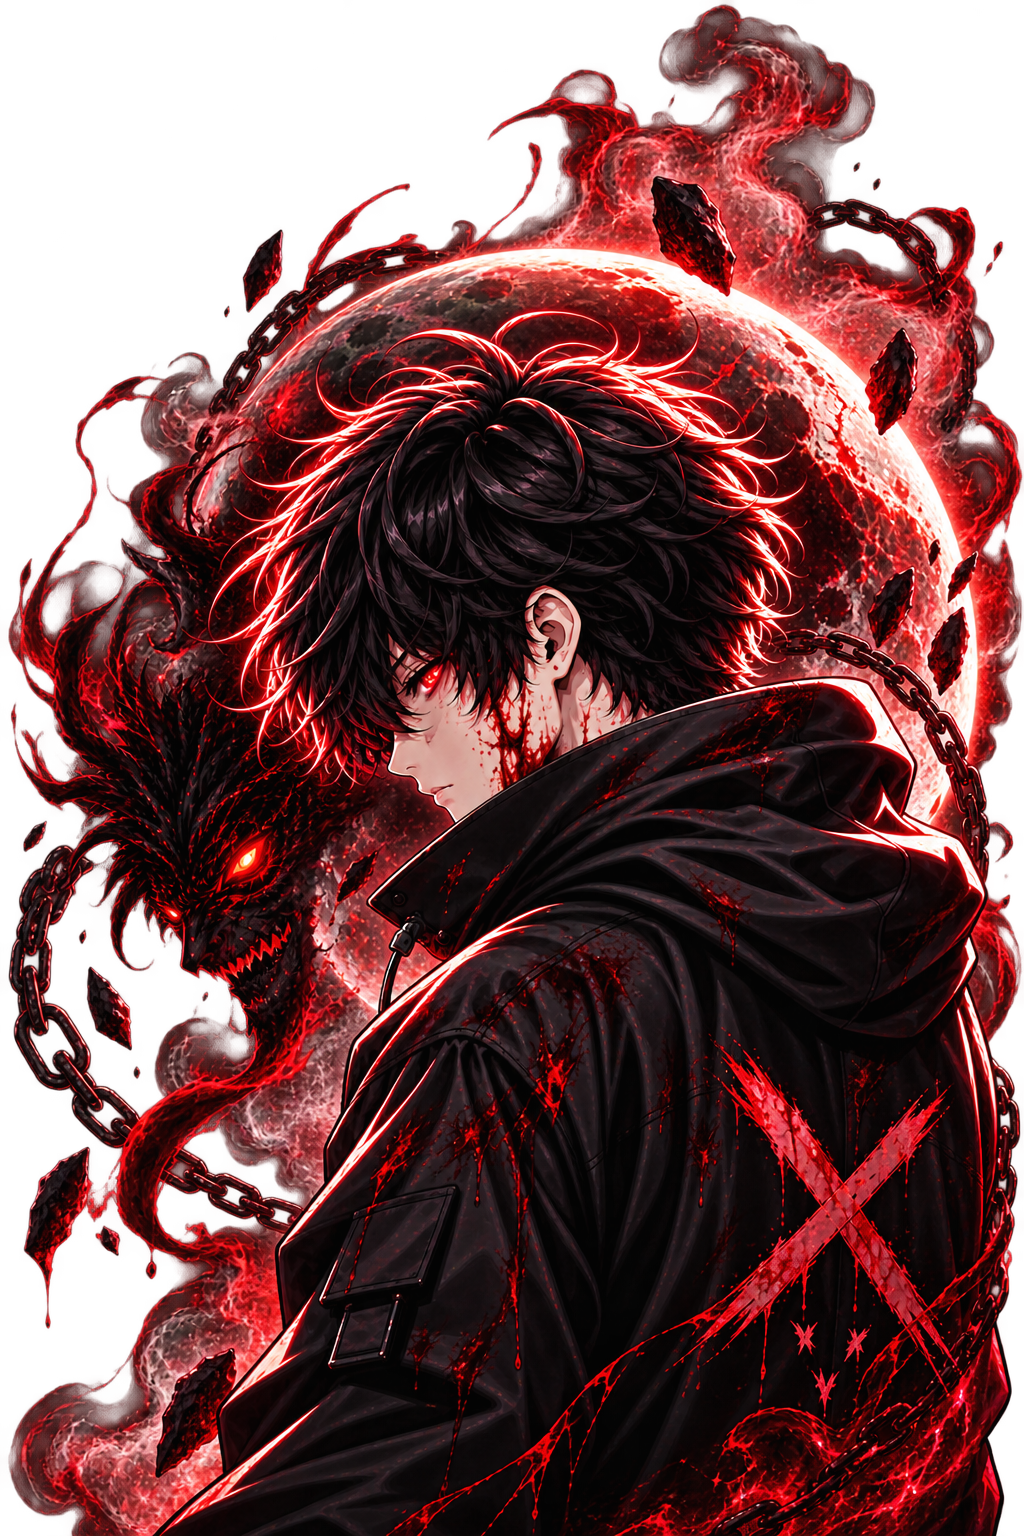
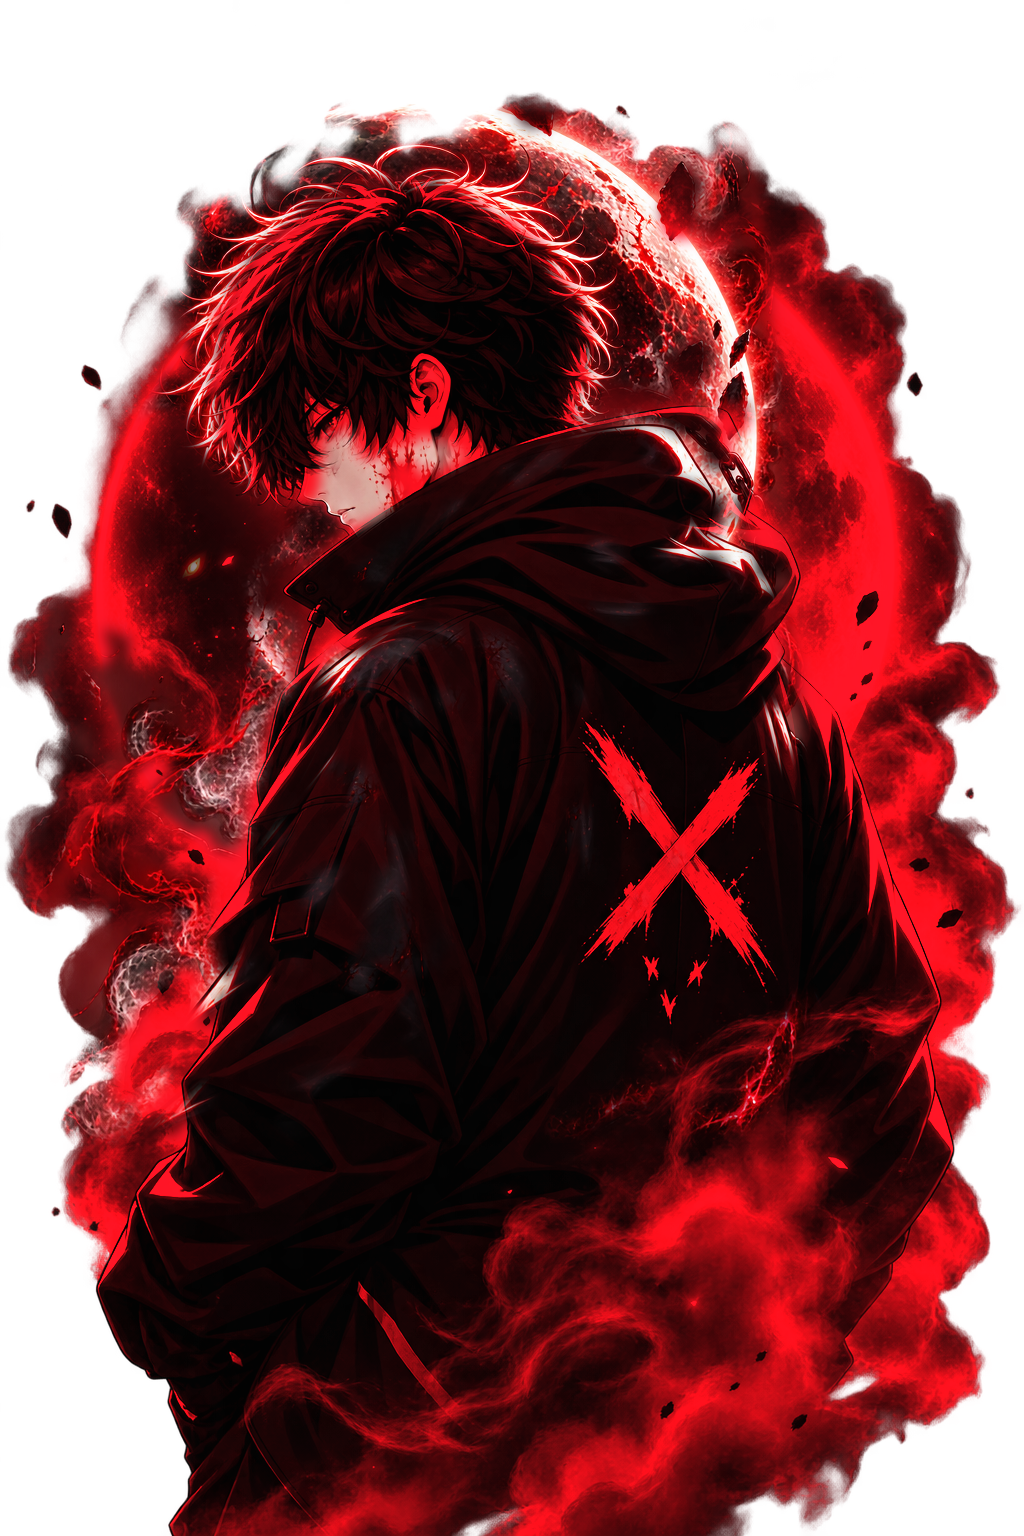
Add smooth spotlight mask transition and compact ambient glow cursor follower

diff --git a/responsive.css b/responsive.css
@@ -42,7 +42,7 @@ body::after {
     left: 0;
     width: 100%;
     height: 100%;
-    background: 
+    background:
         radial-gradient(1.5px 1.5px at 25px 35px, rgba(255, 255, 255, 0.9), transparent),
         radial-gradient(2px 2px at 70px 85px, rgba(215, 230, 255, 0.75), transparent),
         radial-gradient(1px 1px at 130px 45px, rgba(255, 255, 255, 0.65), transparent),
@@ -58,8 +58,13 @@ body::after {
 }
 
 @keyframes moonStars {
-    from { transform: translateY(0); }
-    to { transform: translateY(-160px); }
+    from {
+        transform: translateY(0);
+    }
+
+    to {
+        transform: translateY(-160px);
+    }
 }
 
 body::-webkit-scrollbar {
@@ -327,30 +332,51 @@ header .navigationbar #logo2 a {
 }
 
 #s1home #anime #uimg {
-    object-fit: cover;
     position: absolute;
-    border-radius: 25px;
-    width: 100%;
-    height: 100%;
     top: 0;
     left: 0;
+    width: 100%;
+    height: 100%;
+    border-radius: 25px;
+    object-fit: cover;
+    z-index: 1;
+    pointer-events: none;
+    /* Mouse events sirf container #anime handle karega */
+}
+
+@property --x {
+    syntax: '<length>';
+    inherits: false;
+    initial-value: -9999px;
+}
+
+@property --y {
+    syntax: '<length>';
+    inherits: false;
+    initial-value: -9999px;
 }
 
 #s1home #anime #uimg2 {
-    object-fit: cover;
+    --x: -9999px;
+    --y: -9999px;
     position: absolute;
-    border-radius: 25px;
     top: 0;
     left: 0;
     width: 100%;
     height: 100%;
+    border-radius: 25px;
+    object-fit: cover;
+    z-index: 2;
+    /* Upar rahegi */
     opacity: 0;
-    transition: opacity 0.4s ease;
-}
-
-#s1home #anime:hover #uimg2 {
-    opacity: 1;
-    background-color: #101010;
+    /* Shuru me aur mouse bahar hone par gayab rahega */
+    pointer-events: none;
+    /* Mouse events me glitch na ho */
+    /* Deep Dark Red Filter: Dull/Fika look khatam karke rich contrast aur red boost karega */
+    filter: contrast(1.25) saturate(1.45) brightness(0.92);
+    /* Spotlight Mask: Thoda solid spot taaki spotlight ke andar image faint/fika na lage */
+    -webkit-mask-image: radial-gradient(circle at var(--x, -9999px) var(--y, -9999px), black 15px, transparent 100px);
+    mask-image: radial-gradient(circle at var(--x, -9999px) var(--y, -9999px), black 15px, transparent 100px);
 }
 
 /* --- 4. ABOUT ME SECTION (#aboutme) --- */
@@ -612,6 +638,7 @@ header .navigationbar #logo2 a {
     0% {
         transform: translateX(0);
     }
+
     100% {
         transform: translateX(-100%);
     }
@@ -948,8 +975,10 @@ header .navigationbar #logo2 a {
     box-shadow: 0 25px 80px rgba(0, 0, 0, 0.95), 0 0 50px rgba(56, 189, 248, 0.12);
     transform: scale(0.92) translateY(20px);
     transition: transform 0.4s cubic-bezier(0.16, 1, 0.3, 1);
-    scrollbar-width: none; /* Firefox */
-    -ms-overflow-style: none; /* IE and Edge */
+    scrollbar-width: none;
+    /* Firefox */
+    -ms-overflow-style: none;
+    /* IE and Edge */
 }
 
 .project-modal.active .modal-container {
@@ -1775,6 +1804,7 @@ header .navigationbar #logo2 a {
         opacity: 0;
         transform: translateY(20px) scale(0.95);
     }
+
     to {
         opacity: 1;
         transform: translateY(0) scale(1);
@@ -1790,4 +1820,90 @@ header .navigationbar #logo2 a {
     opacity: 0.6;
     cursor: not-allowed;
     filter: grayscale(0.5);
+}
+
+/* ==========================================================================
+   AMBIENT GLOW CURSOR STYLES (COMPACT & SLEEK)
+   ========================================================================== */
+#cursor-glow-wrapper {
+    position: fixed;
+    top: 0;
+    left: 0;
+    pointer-events: none;
+    z-index: 9999;
+    transform: translate(-50%, -50%);
+    opacity: 0;
+    will-change: transform, opacity;
+    transition: opacity 0.3s ease;
+}
+
+/* Side se 30px ka Soft Ambient Moonlight Glow */
+.cursor-aura {
+    position: absolute;
+    top: 50%;
+    left: 50%;
+    transform: translate(-50%, -50%);
+    width: 82px; /* 22px ring + 30px side glow */
+    height: 82px;
+    border-radius: 50%;
+    background: radial-gradient(circle, rgba(255, 255, 255, 0.28) 0%, rgba(186, 215, 255, 0.12) 35%, transparent 75%);
+    filter: blur(6px);
+    pointer-events: none;
+    transition: transform 0.3s cubic-bezier(0.16, 1, 0.3, 1), opacity 0.3s ease;
+}
+
+/* Chota Sleek Transparent Glass Ring (22px) with 30px Glow */
+.cursor-ring {
+    position: absolute;
+    top: 50%;
+    left: 50%;
+    transform: translate(-50%, -50%);
+    width: 22px;
+    height: 22px;
+    border-radius: 50%;
+    border: 1.5px solid rgba(255, 255, 255, 0.8);
+    background: rgba(255, 255, 255, 0.02);
+    backdrop-filter: blur(1.5px);
+    box-shadow: 0 0 30px rgba(255, 255, 255, 0.45), 0 0 10px rgba(255, 255, 255, 0.25);
+    transition: width 0.25s cubic-bezier(0.16, 1, 0.3, 1),
+                height 0.25s cubic-bezier(0.16, 1, 0.3, 1),
+                border-color 0.25s ease,
+                box-shadow 0.25s ease;
+}
+
+/* Center Dot */
+.cursor-dot {
+    position: absolute;
+    top: 50%;
+    left: 50%;
+    transform: translate(-50%, -50%);
+    width: 4px;
+    height: 4px;
+    border-radius: 50%;
+    background: #ffffff;
+    box-shadow: 0 0 6px #ffffff;
+    transition: opacity 0.2s ease, transform 0.2s ease;
+}
+
+/* Text / Name Hover State: Compact circle (Sirf 38px) */
+#cursor-glow-wrapper.hovering-text .cursor-ring {
+    width: 38px;
+    height: 38px;
+    border-color: rgba(255, 255, 255, 0.95);
+    box-shadow: 0 0 15px rgba(255, 255, 255, 0.5);
+}
+
+#cursor-glow-wrapper.hovering-text .cursor-dot {
+    opacity: 0;
+    transform: translate(-50%, -50%) scale(0);
+}
+
+#cursor-glow-wrapper.hovering-text .cursor-aura {
+    transform: translate(-50%, -50%) scale(1.15);
+}
+
+/* Mask Image (#anime) ya specified images pe poori tarah gayab */
+#cursor-glow-wrapper.hidden-on-img {
+    opacity: 0 !important;
+    transform: translate(-50%, -50%) scale(0.4) !important;
 }

diff --git a/scripts.js b/scripts.js
@@ -87,6 +87,61 @@ gsap.from(".insid2", {
     }
 });
 
+//masking 
+// --- Anime Image Mask Effect (Smooth / Slow GSAP Transition) ---
+const animeBox = document.querySelector("#anime");
+const uimg2 = document.querySelector("#uimg2");
+
+if (animeBox && uimg2) {
+    animeBox.addEventListener("mouseenter", function (dets) {
+        const rect = animeBox.getBoundingClientRect();
+        const x = dets.clientX - rect.left;
+        const y = dets.clientY - rect.top;
+
+        // Entry spot par set karo taaki mask dur se fly na kare
+        gsap.set(uimg2, {
+            "--x": x + "px",
+            "--y": y + "px"
+        });
+
+        // Mask ko smoothly fade in karo
+        gsap.to(uimg2, {
+            opacity: 1,
+            duration: 0.35,
+            ease: "power2.out",
+            overwrite: "auto"
+        });
+    });
+
+    animeBox.addEventListener("mousemove", function (dets) {
+        const rect = animeBox.getBoundingClientRect();
+        const x = dets.clientX - rect.left;
+        const y = dets.clientY - rect.top;
+
+        // Mask ko mouse ke peeche smooth glide karao
+        gsap.to(uimg2, {
+            opacity: 1,
+            "--x": x + "px",
+            "--y": y + "px",
+            duration: 0.8,
+            ease: "power2.out",
+            overwrite: "auto"
+        });
+    });
+
+    animeBox.addEventListener("mouseleave", function () {
+        // Mouse div se bahar jate hi mask turant smooth fade-out (gayab) hoga
+        gsap.to(uimg2, {
+            opacity: 0,
+            duration: 0.35,
+            ease: "power2.out",
+            overwrite: "auto"
+        });
+    });
+}
+
+
+
 // ==========================================
 // 🚀 PROJECT DETAILS MODAL INTERACTION
 // ==========================================
@@ -262,3 +317,59 @@ window.addEventListener('load', () => {
 });
 
 
+
+
+// ==========================================
+// AMBIENT GLOW CURSOR TRACKER
+// ==========================================
+(function initCursorGlow() {
+    const wrapper = document.getElementById("cursor-glow-wrapper");
+    if (!wrapper) return;
+
+    let isHidden = false;
+
+    // 1. Mouse Follow with GSAP smooth spring easing
+    window.addEventListener("mousemove", function (dets) {
+        gsap.to(wrapper, {
+            x: dets.clientX,
+            y: dets.clientY,
+            opacity: isHidden ? 0 : 1,
+            duration: 0.55,
+            ease: "power2.out",
+            overwrite: "auto"
+        });
+    });
+
+    // Window se bahar jane par gayab
+    document.addEventListener("mouseleave", function () {
+        gsap.to(wrapper, { opacity: 0, duration: 0.3, overwrite: "auto" });
+    });
+
+    // 2. Mask wali Image (#anime) aur images pe GAYAB ho jaye
+    const hiddenTargets = document.querySelectorAll("#anime, #circleimg1, .project-thumb, #uimg, #uimg2");
+    hiddenTargets.forEach(function (el) {
+        el.addEventListener("mouseenter", function () {
+            isHidden = true;
+            wrapper.classList.add("hidden-on-img");
+            gsap.to(wrapper, { opacity: 0, duration: 0.25, overwrite: "auto" });
+        });
+        el.addEventListener("mouseleave", function () {
+            isHidden = false;
+            wrapper.classList.remove("hidden-on-img");
+            gsap.to(wrapper, { opacity: 1, duration: 0.35, overwrite: "auto" });
+        });
+    });
+
+    // 3. Name, Headings, Links, Buttons pe Transparent + Bada Circle
+    const textTargets = "#utkarsh, #Dhakane, #hi, #developer, #p1, .Aboutme1, #span1, #span2, #project-title, #contact-title, a, button, .tag, .proj-btn";
+    document.querySelectorAll(textTargets).forEach(function (el) {
+        el.addEventListener("mouseenter", function () {
+            if (!isHidden) {
+                wrapper.classList.add("hovering-text");
+            }
+        });
+        el.addEventListener("mouseleave", function () {
+            wrapper.classList.remove("hovering-text");
+        });
+    });
+})();

diff --git a/index.html b/index.html
@@ -70,7 +70,7 @@
         </div>
         <div id="anime">
             <img id="uimg" src="/html/background/anime.png" alt="anime">
-            <img id="uimg2" src="/html/background/animevillen.png" alt="anime villen">
+            <img id="uimg2" src="/html/background/utkv.jpeg" alt="anime villen">
         </div>
     </section>
 
@@ -443,6 +443,14 @@
         <!-- Toast Notification Container -->
         <div id="toast-box"></div>
     </section>
+
+    
+    <!-- Ambient Glow Cursor Follower -->
+    <div id="cursor-glow-wrapper">
+        <div class="cursor-aura"></div>
+        <div class="cursor-ring"></div>
+        <div class="cursor-dot"></div>
+    </div>
 
     <script src="https://cdnjs.cloudflare.com/ajax/libs/gsap/3.12.5/gsap.min.js"></script>
     <script src="https://unpkg.com/lenis@1.3.26/dist/lenis.min.js"></script>
